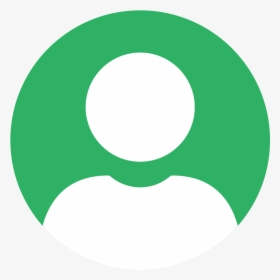
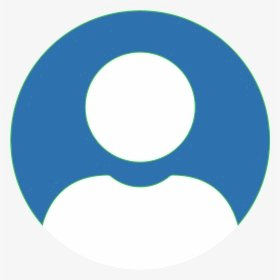
color change 2

diff --git a/style.css b/style.css
@@ -109,7 +109,7 @@
     border-radius: 25px;
     padding: 5px 12px;
     /* border: 2px solid black; */
-    /* margin: 5px 6px; */
+    margin: 0px 3px;
     /* padding: 7px 18px; */
     /* border-radius: 59px; */
   }
@@ -191,11 +191,15 @@
   }
   
   .button:hover {
-    background-color:#29721b;
-    color:white;
+    background-color: #033864;
+
+    
   }
 
- 
+  .button a:hover {
+    color:white;
+    
+  }
   
   .tool .main {
     display: flex;
@@ -239,6 +243,7 @@
     color: #080808;
     font-size: 24px;
     letter-spacing: 1px;
+    text-align: justify
   }
   
   .img img {
@@ -275,5 +280,19 @@
     padding: 25px;
   
   }
+
+  .h-primary {
+    font-size: 3.8rem;
+    margin-top: 273px;
+    margin-bottom: -6px;
+    /* font-family: 'Bree Serif', serif; */
+    letter-spacing: 2px;
+  }
+  
+  .center {
+    text-align: center;
+  
+  }
+  
 
   

diff --git a/login.css b/login.css
@@ -26,7 +26,7 @@ form {
   
   /* Set a style for all buttons */
   button {
-    background-color: #2d803c;
+    background-color: #236aa5;
     color: white;
     padding: 14px 20px;
     margin: 8px 0;
